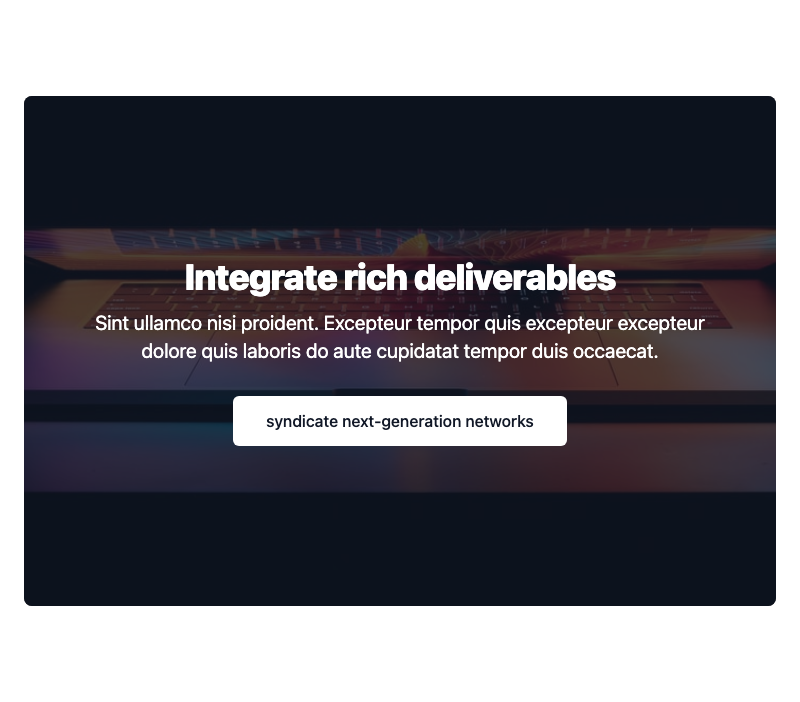
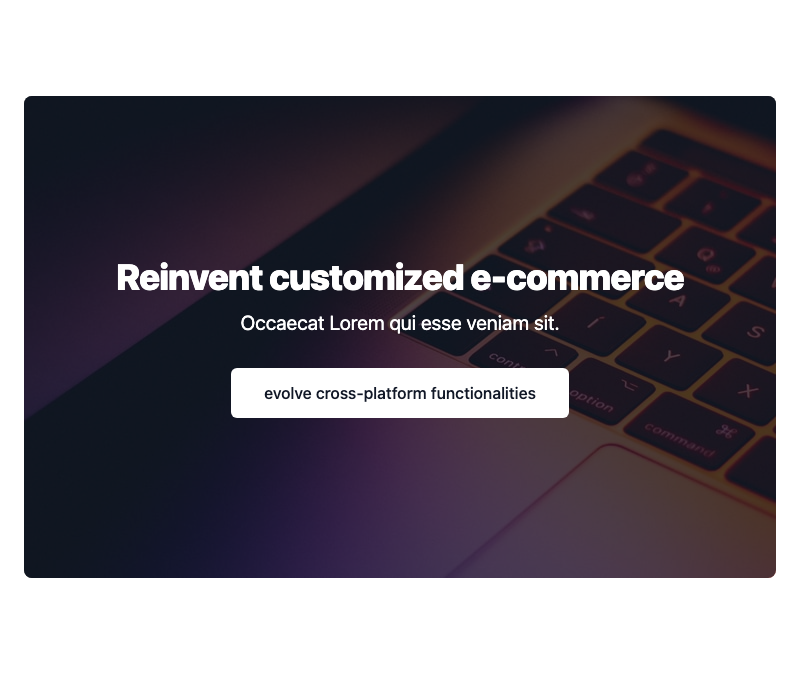
testing a slight change

diff --git a/.slicemachine/assets/slices/PromoSectionWithBackgroundImage/index.stories.js b/.slicemachine/assets/slices/PromoSectionWithBackgroundImage/index.stories.js
@@ -5,7 +5,7 @@ export default {
 }
 
 
-export const _DefaultSlice = () => <MyComponent slice={{"variation":"default-slice","name":"Default slice","slice_type":"promo_section_with_background_image","items":[],"primary":{"title":[{"type":"heading1","text":"Integrate rich deliverables","spans":[]}],"description":[{"type":"paragraph","text":"Sint ullamco nisi proident. Excepteur tempor quis excepteur excepteur dolore quis laboris do aute cupidatat tempor duis occaecat.","spans":[]}],"image":{"dimensions":{"width":1216,"height":482},"alt":"Placeholder image","copyright":null,"url":"https://images.unsplash.com/photo-1537498425277-c283d32ef9db?w=1216&h=482&fit=crop","mobile":{"dimensions":{"width":605,"height":443},"alt":"Placeholder image","copyright":null,"url":"https://images.unsplash.com/photo-1537498425277-c283d32ef9db?w=605&h=443&fit=crop"}},"link":{"link_type":"Web","url":"https://prismic.io"},"linkLabel":"syndicate next-generation networks"},"id":"_DefaultSlice"}} />
+export const _DefaultSlice = () => <MyComponent slice={{"variation":"default-slice","name":"Default slice","slice_type":"promo_section_with_background_image","items":[],"primary":{"title":[{"type":"heading1","text":"Reinvent customized e-commerce","spans":[]}],"description":[{"type":"paragraph","text":"Occaecat Lorem qui esse veniam sit.","spans":[]}],"image":{"dimensions":{"width":1216,"height":482},"alt":"Placeholder image","copyright":null,"url":"https://images.unsplash.com/photo-1525547719571-a2d4ac8945e2?w=1216&h=482&fit=crop","mobile":{"dimensions":{"width":605,"height":443},"alt":"Placeholder image","copyright":null,"url":"https://images.unsplash.com/photo-1525547719571-a2d4ac8945e2?w=605&h=443&fit=crop"}},"link":{"link_type":"Web","url":"http://google.com"},"linkLabel":"evolve cross-platform functionalities","testField":[{"type":"paragraph","text":"Commodo ipsum id pariatur sit proident excepteur ad ad nostrud proident ex tempor nisi anim.","spans":[]}]},"id":"_DefaultSlice"}} />
 _DefaultSlice.storyName = 'Default slice'
 
 export const _CameraInsurance = () => <MyComponent slice={{"variation":"cameraInsurance","name":"Camera Insurance","slice_type":"promo_section_with_background_image","items":[],"primary":{},"id":"_CameraInsurance"}} />

diff --git a/utils/listSlices.js b/utils/listSlices.js
@@ -42,6 +42,8 @@ async function pushSlices() {
     console.log("slice in the github code")
     slicesJsons.forEach(function(slice,index){
         const sliceObject = JSON.parse(fs.readFileSync(slicesJsons[index], 'utf8'));
+        sliceObject.imageUrl = "https://raw.githubusercontent.com/chamois-d-or/poc-repo/github-action/.slicemachine/assets/slices/CategoryPreviewWithImageBackgrounds/default-slice/preview.png"
+        console.log(sliceObject)
         pushSlice(sliceObject)
     })
 }
